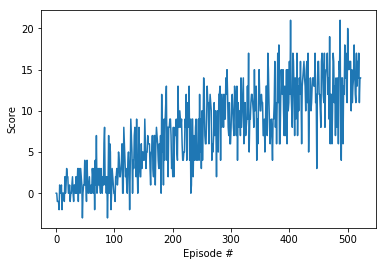
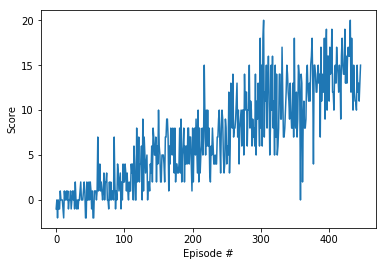
update results image

diff --git a/p1_navigation/Report.md b/p1_navigation/Report.md
@@ -62,7 +62,7 @@ Here is the reward history plot:
 
 The results show that a basic DQN setup with a simple two-layer fully-connected network 
 architecture and a random-sampling replay buffer performs adequately to achieve the project
-goal. The algorithm converges to a score of 13.00 within 523 episodes of training. 
+goal. The algorithm converges to a score of 13.00 within 447 episodes of training. 
 
 To further improve the learning speed, several possible ideas may be helpful:
 
